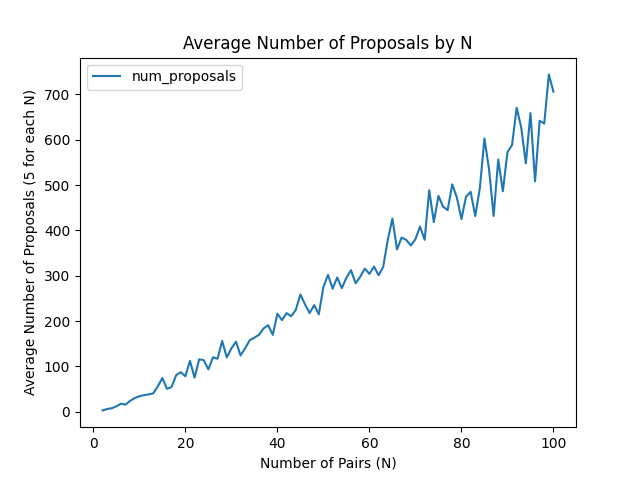
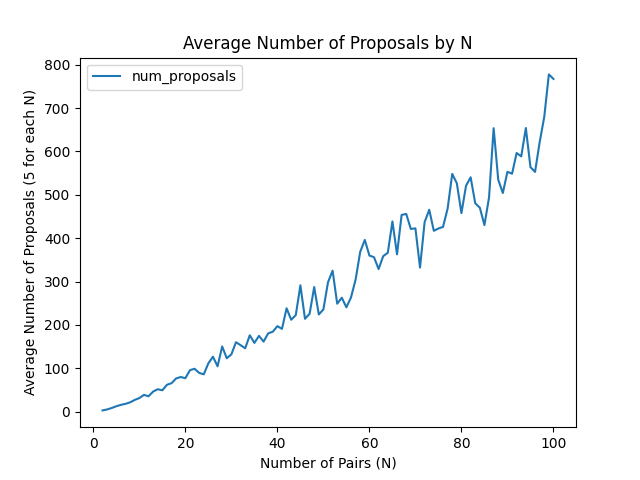
Update rankings

diff --git a/Gale-Shapley.py b/Gale-Shapley.py
@@ -6,6 +6,7 @@ All Code that relates to Mini Project 2
 
 import random
 import pandas as pd
+import numpy as np
 import matplotlib.pyplot as plt
 
 class Indivdual():
@@ -37,13 +38,22 @@ class Indivdual():
         for idx, label in enumerate(self.my_rankings):
             if label == candidate:
                 return idx + 1
-                
-def generate_ranking_list(n):
-    my_rankings = list(range(n))
-    random.shuffle(my_rankings)
+            
+def generate_distinct_numbers(n):
+    '''
+    Generates a list of increasing numbers.
 
-    return my_rankings
+    Adjust this function to see how different personal rankings effect the algortithm 
+    '''
 
+    start = 1
+    end = n**2
+    
+    # Generate n distinct random numbers between start and end
+    random_numbers = random.sample(range(start, end + 1), n)
+
+    return random_numbers
+            
 def generate_doctors_hospitals(n):
     '''
     Setting up doctors and hospitals 
@@ -51,12 +61,20 @@ def generate_doctors_hospitals(n):
     doctor_list = []
     hospital_list = []
 
-    for i in range(n):
-        doc_rank = generate_ranking_list(n)
-        doctor_list.append(Indivdual(i, n, doc_rank))
+    popularity_ranks = generate_distinct_numbers(n)
 
-        hos_rank = generate_ranking_list(n)
-        hospital_list.append(Indivdual(i, n, hos_rank))
+    doctor_pop_rankings = popularity_ranks.copy()
+    random.shuffle(doctor_pop_rankings)
+    hospital_pop_rankings = popularity_ranks.copy()
+    random.shuffle(hospital_pop_rankings)
+
+    for i in range(n):
+
+        doc_rankings = np.random.choice(range(n), replace=False, size= n, p = [x/sum(doctor_pop_rankings) for x in doctor_pop_rankings])
+        hos_rankings = np.random.choice(range(n), replace=False, size= n, p = [x/sum(hospital_pop_rankings) for x in hospital_pop_rankings])
+
+        doctor_list.append(Indivdual(i, n, doc_rankings))
+        hospital_list.append(Indivdual(i, n, hos_rankings))
 
     return doctor_list, hospital_list
 
@@ -235,3 +253,13 @@ def distribution_proposals_for_n():
 if __name__ == '__main__':
     avg_num_proposals_by_n()
     distribution_proposals_for_n()
+
+    #popularity_ranks = generate_distinct_numbers(20)
+    #doctor_pop_rankings = popularity_ranks.copy()
+    #random.shuffle(doctor_pop_rankings)
+#
+    #print(doctor_pop_rankings)
+    #for i in range(20):
+    #    doc_rankings = np.random.choice(range(20), replace=False, size= 20, p = [x/sum(doctor_pop_rankings) for x in doctor_pop_rankings])
+    #    print(doc_rankings)
+
